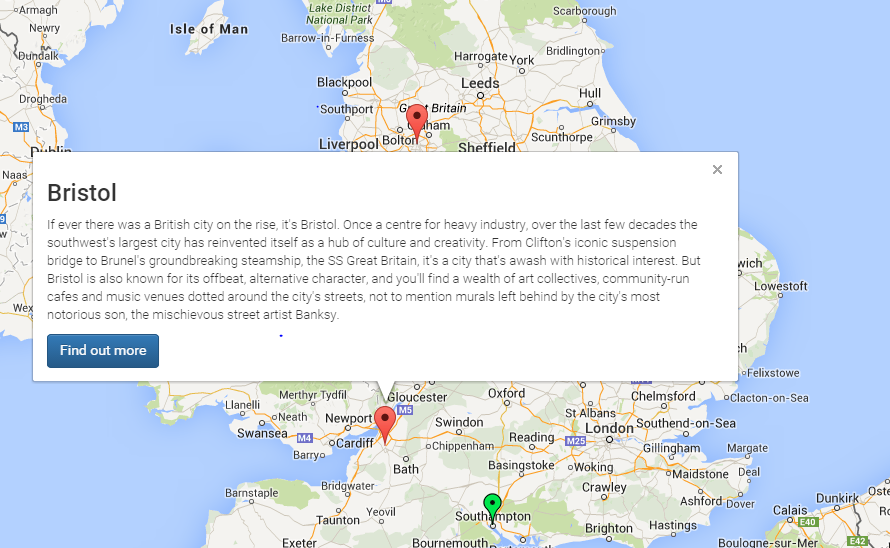
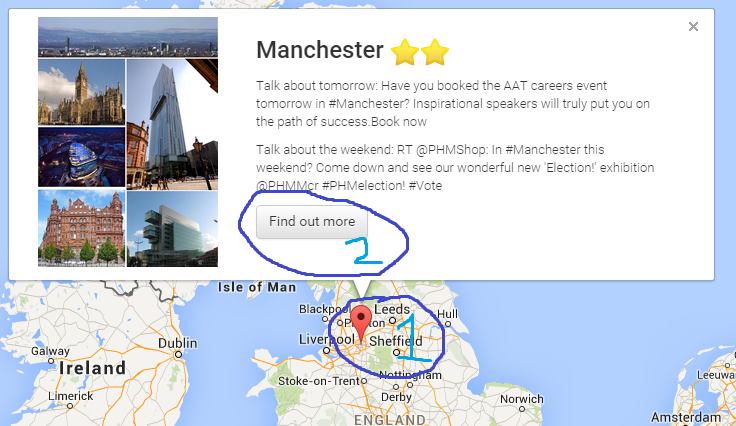
Validation

diff --git a/css/styles.css b/css/styles.css
@@ -5,6 +5,10 @@ body {
   background-color: #484950;
 
 }
+.imagepopup{
+	height:250px;
+	width:180px;
+}
 .pin{
 	width:35px;
 	height: 35px;
@@ -181,7 +185,7 @@ text-indent:-99999px
 	margin-top: 30px;
 }
 .rate{
-	width:70%;
+	width:300px;
 }
 .description{
 	background-color: #484950;

diff --git a/index.php b/index.php
@@ -67,30 +67,20 @@ require('includes/header.php'); ?>
             require('partials/rating.php'); 
             for($i = 1; $i <= $ratingScore; $i++){
                 $rating = $rating."<img src='images/star.png' class='rating'>";
-                    //echo('<img src="images/star.png" class="rating">');
-                    //http://png-1.findicons.com/files/icons/2166/oxygen/48/rating.png
-
                   }
             $rating = substr($rating, 1);
            
-         
-            $tweets = $connection->get("https://api.twitter.com/1.1/search/tweets.json?q=tomorrow+AND+event+AND+<?=$city->name?>&result_type=recent&count=2");
+            $tweets = $connection->get("https://api.twitter.com/1.1/search/tweets.json?q==tomorrow+AND+<?=$city->name?>&result_type=recent&count=2");
             $tweets1 = $connection->get("https://api.twitter.com/1.1/search/tweets.json?q=weekend+AND+<?=$city->name?>&result_type=recent&count=2");
 
             $text = (json_encode($tweets->statuses[0]->text));
-            if(strpos($text, 'http') !== FALSE){
-                $break = explode("http", $text);
-                $text = $break[0];
-             }
-             $text = explode('"', $text);
+            $text = explode('"', $text);
+            
+            $datecreated = substr(json_encode($tweets->statuses[0]->created_at),5,12);
           
             $text1 = (json_encode($tweets1->statuses[0]->text));
-            if(strpos($text1, 'http') !== FALSE){
-                $break = explode("http", $text1);
-                $text1 = $break[0];
-                     }
-                             
-              $text1 = explode('"', $text1);                                    
+            $text1 = explode('"', $text1);   
+            $datecreated1 = substr(json_encode($tweets1->statuses[0]->created_at),5,12);                                 
 
                         
             ?>
@@ -107,7 +97,10 @@ require('includes/header.php'); ?>
             <?php endif; ?>
             });
             //content displayed when the info window pops up
-            var contentString = "<h3><?=$name?> <?=$rating?></h3><p>Talk about tomorrow: <?=$text[1]?></p><p>Talk about the weekend: <?=$text1[1]?></p><a class='btn btn-default' id='moreInfo' href='moreinfo.php?id=<?=$id?>'>Find out more</a>";
+            var contentString = "<div class='col-md-4'><img src='<?=$city->img?>' class='imagepopup'></div>"
+            +"<div class='col-md-8'><h3><?=$name?> <?=$rating?></h3>"
+            +"<p>Talk about tomorrow from <?=$datecreated?>: <?=$text[1]?></p><p>Talk about the weekend from <?=$datecreated1?>: <?=$text1[1]?></p>"
+            +"<a class='btn btn-default' id='moreInfo' href='moreinfo.php?id=<?=$id?>'>Find out more</a></div>";
 
 
             var <?=$info?> = new google.maps.InfoWindow({

diff --git a/chooseCity.php b/chooseCity.php
@@ -32,12 +32,9 @@ require('includes/header.php');
           <div class="col-md-4 description">
                <p>STEP 1</p>Begin by selecting you home city from the dropdown on the right. Nice and easy!
           </div>
-          <div class="col-md-3">
-           <!-- http://icons.iconarchive.com/icons/gakuseisean/ivista-2/256/Alarm-Arrow-Right-icon.png -->
-           <img class="easysteps" src="images/arrow.png">
-          </div>
+         
         
-         <div class="col-md-3">
+         <div class="col-md-5">
           <div class="col-md-12">
             <h3>Select your city</h3>
           </div>
@@ -66,7 +63,7 @@ require('includes/header.php');
        <div class="col-md-11 col-md-offset-1 text-center">
       
              <div class="col-md-4 description">
-                   <p>STEP 2</p>Choose where you want to visit by clicking on the different pins adn selecting 'Find out more'
+                   <p>STEP 2</p>Choose where you want to visit by clicking on the different pins and find out information like what people are talking about. If your interested in visiting, select 'Find out more'
             </div>
             <div class="col-md-6">
              
@@ -76,7 +73,8 @@ require('includes/header.php');
          
           <div class="row">
             <div class="col-md-4 description">
-                 <p>STEP 3</p>You can then select the time and day you want to leave to get train times and weather details to the place you want to go
+                 <p>STEP 3</p>On this page you can view more in depth information about the city, such as attractions and descriptions. <br>You can then select the time and day you want to leave to get train times to the place you want to go for any city that is not your hometown.
+                  If you have visited the city before, select the rate button and use the radio buttons to submit your rating.
             </div>
             <div class="col-md-6">
              <img  class="easysteps" src="images/step3.PNG">

diff --git a/partials/travel.php b/partials/travel.php
@@ -18,22 +18,15 @@
     var request = {
       location: lat,
       radius: 10000,
+      minprice: 4,
+      //https://developers.google.com/places/documentation/supported_types
       query: ['entertainment']
+
     };
     infowindow = new google.maps.InfoWindow();
     var service = new google.maps.places.PlacesService(map);
     service.textSearch(request, callback);
-    var requestDet = {
-      placeId: 'ChIJb9gysLF2dEgR81lqnq80s_Q'
-    };
-
-    service.getDetails(requestDet, callback1);
-
-    function callback1(place, status) {
-      if (status == google.maps.places.PlacesServiceStatus.OK) {
-        console.log(place);
-      }
-    }
+   
   }
 
   function callback(results, status) {
@@ -50,17 +43,10 @@
           '<div class="banner">'+ img + '<div class="label"> <div class="title activities">'
           + results[i].name 
           + '</div><div class="activities price">of 5<span>'+results[i].rating+'</span></div><br><button class="btn btn-default" onclick="clicked('+"'"+i+"a'"+')">Learn More</button></div></div><div class="vis activities" id="'+i+'a">'+results[i].formatted_address+'</div></div>';
-          /*<dl class="left wordwrap dl-horizontal"><dt>Rating</dt><dd>This attraction has been rated '
-          +results[i].rating+' out of a possible 5.</dd> <dt>Address</dt><dd>'
-          +results[i].formatted_address+'</dd><dt>Type</dt><dd>'
-          +results[i].types+'</dd></dl></div>'+
-          '<dt>Photos</dt><dd>'
-          +'<img src="'+results[i].photos[0].getUrl({'maxWidth': 200, 'maxHeight': 200})+'">'
-          +'</dd>'*/
+       
          
         }
-        //get extra details
-        //console.log(results[i]);
+       
         
       }
       html += '';  

diff --git a/partials/twitter.php b/partials/twitter.php
@@ -16,26 +16,25 @@ function getConnectionWithAccessToken($cons_key, $cons_secret, $oauth_token, $oa
 
 $connection = getConnectionWithAccessToken($consumerkey, $consumersecret, $accesstoken, $accesstokensecret);
 
-$tweets = $connection->get("https://api.twitter.com/1.1/search/tweets.json?q=tomorrow+AND+event+AND+<?=$city->name?>&result_type=recent&count=2");
+$tweets = $connection->get("https://api.twitter.com/1.1/search/tweets.json?q=tomorrow+AND+<?=$city->name?>&result_type=recent&count=2");
 $tweets1 = $connection->get("https://api.twitter.com/1.1/search/tweets.json?q=weekend+AND+<?=$city->name?>&result_type=recent&count=2");
 
  echo "   <div class='col-md-4'><div class='bubble'><h3>Tomorrow</h3>";
 for ($i = 0; $i < 2; $i++) {
  
  $text = (json_encode($tweets->statuses[$i]->text));
- $pieces = explode("http", $text);
- echo $pieces[0];
- echo '"<br><br>';
+ echo ($text.' - ');
+ echo substr(json_encode($tweets->statuses[$i]->created_at),5,12);
+ echo '<br><br>';
 }
- echo "</div></div><div class='col-md-4 text-center'><h2>Twitter trends</h2><img src='images/student.png'></div><div class='col-md-4'><div class='bubble'><h3>This weekend</h3>";
+ echo "</div></div><div class='col-md-4 text-center'><h2>Twitter trends</h2><img src='images/student.png'></div><div class='col-md-4'><div class='bubble'><h3>The weekend</h3>";
 
 for ($i = 0; $i < 2; $i++) {
  
  $text = (json_encode($tweets1->statuses[$i]->text));
- $pieces = explode("http", $text);
- echo $pieces[0];
-
-  echo '"<br><br>';
+ echo ($text.' - ');
+ echo substr(json_encode($tweets->statuses[$i]->created_at),5,12);
+ echo '<br><br>';
 
 }
 

diff --git a/moreinfo.php b/moreinfo.php
@@ -114,7 +114,7 @@ $city = $city->fetch_object('City')?>
           </div>
           <div class="col-md-5 col-md-offset-1">
             
-            <a class="btn btn-default btn-lg rate" onclick="rate()">Rate <?=$city->name?></a>
+            <a class="btn btn-default btn-lg rate" onclick="rate()">Visited already? Rate <?=$city->name?></a>
               <?php
                 
                 if(isset($_SESSION['rated'])){
